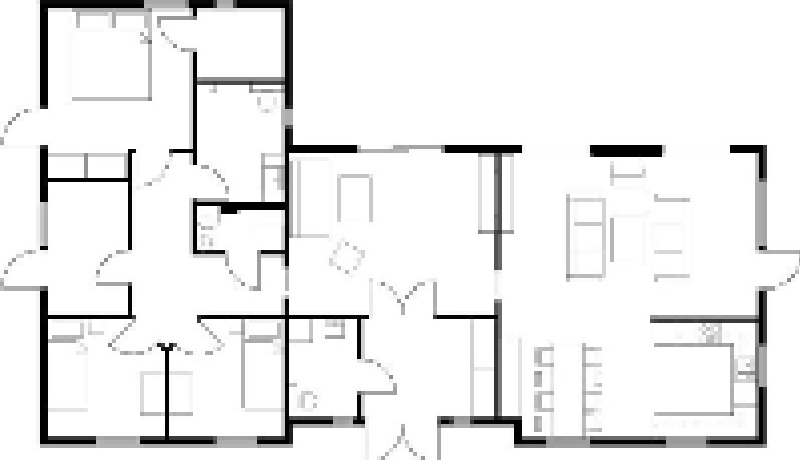
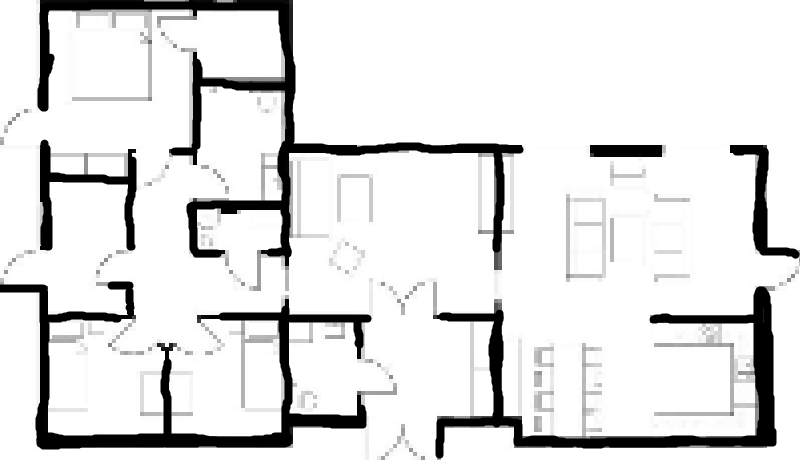
Adding new map, once again better player sprites

diff --git a/HotCheeseDenmark/beamOfSight.java b/HotCheeseDenmark/beamOfSight.java
@@ -37,7 +37,7 @@ public class beamOfSight extends Actor
         }
         getWorld().removeObject(this);
     }
-    public void addedToWorld(World world){
+    public void addedToWorldAt(World world){
         wall = getWorld().getColorAt(239,115);
     }
 }
